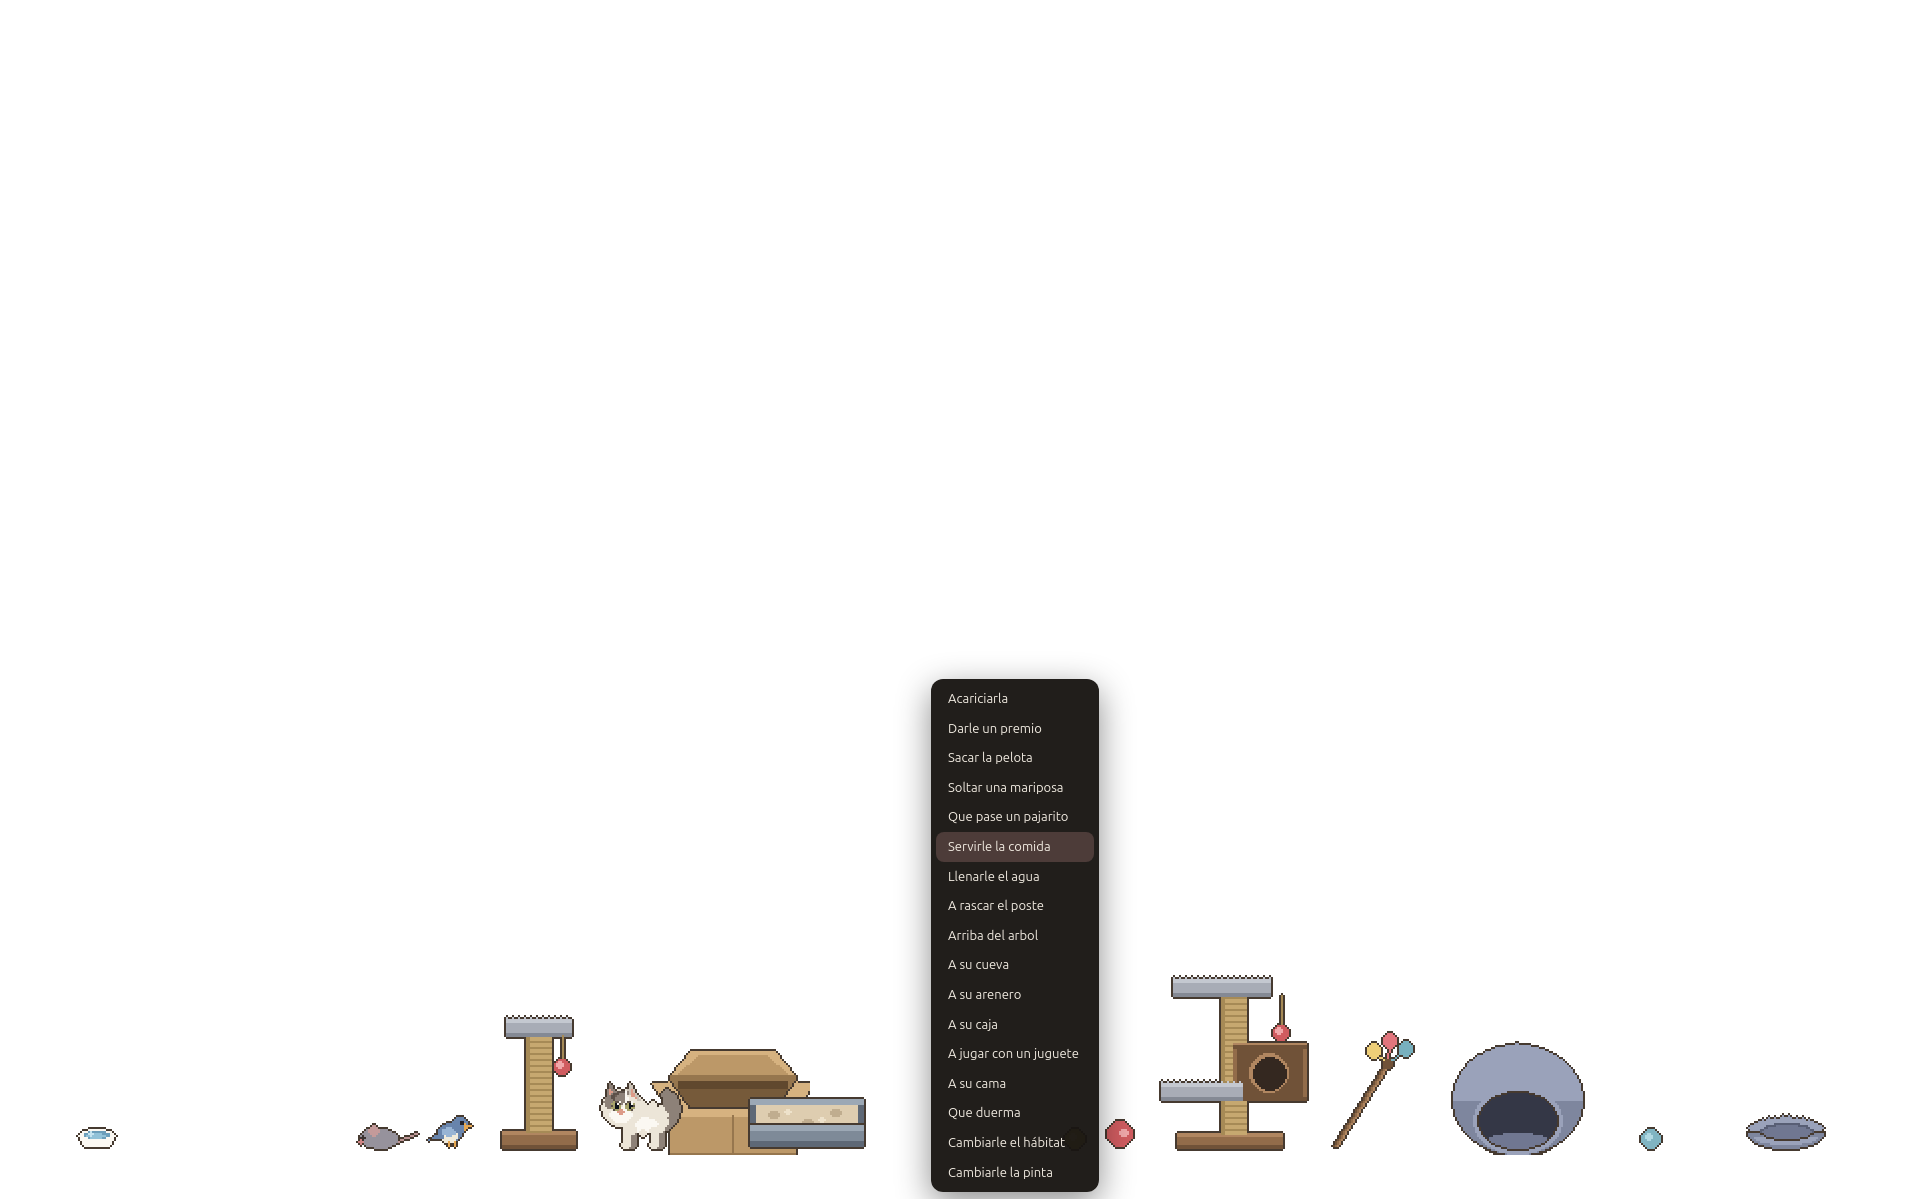
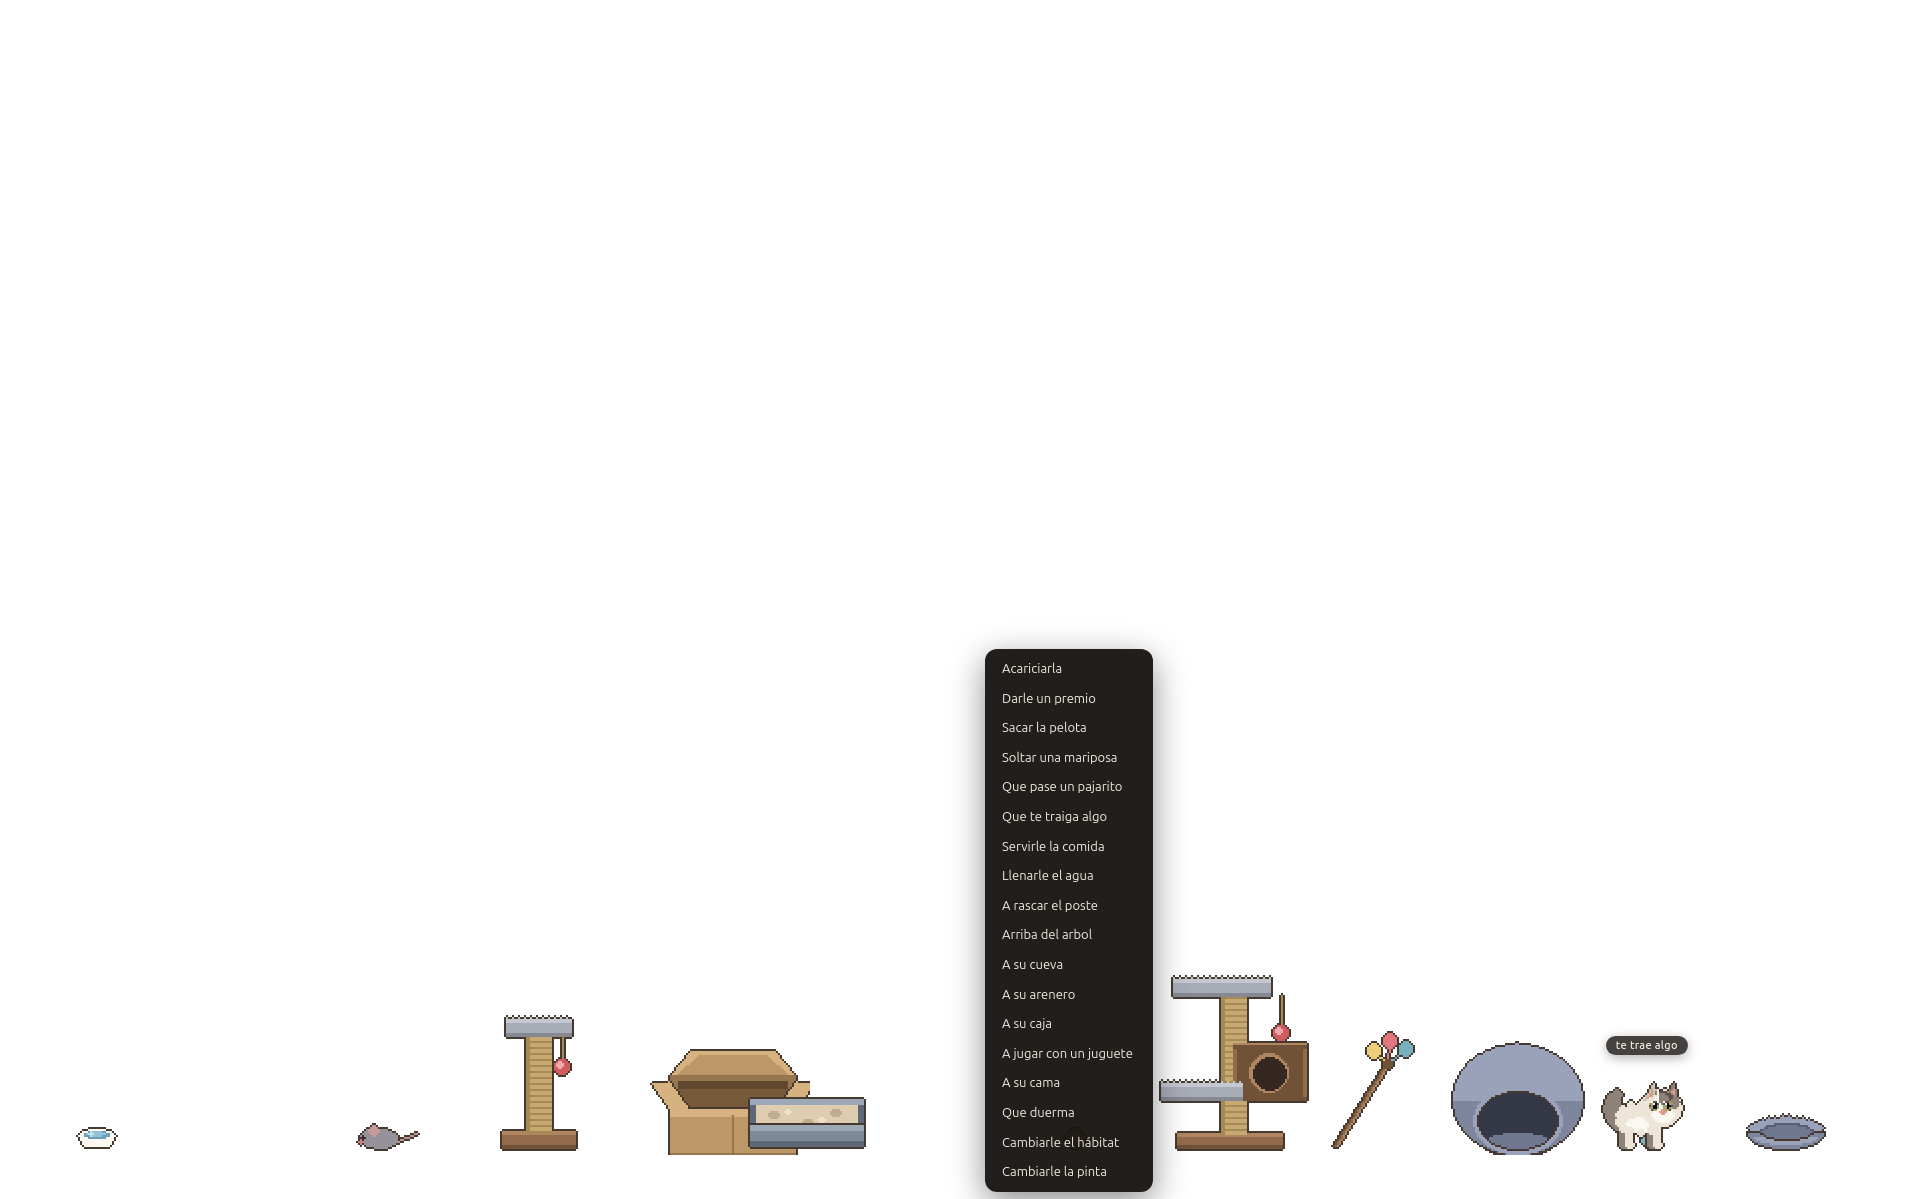
Que te traiga un regalito
Los gatos le llevan lo que cazan a quien quieren. Ella no caza nada de verdad,
asi que agarra uno de sus juguetes, te lo lleva hasta donde tenes el cursor, lo
deja ahi y se queda esperando que lo veas.

El juguete que levanta viaja con ella: mientras lo lleva se le ve colgando de la
boca (se dibuja por delante de ella), y cuando lo suelta queda en el piso y se
dibuja por detras. Se le ocurre sola cada tanto, o Ctrl+Alt+G.

UN BUG QUE SALIO AL PROBARLO
`llevaRegalo` lo use como modo de caminata pero no lo agregue al case que mueve,
asi que agarraba el juguete y se quedaba clavada en el lugar con el en la boca.
El case que mueve solo conocia walkTo y trot.

diff --git a/src/renderer/main.js b/src/renderer/main.js
@@ -3,7 +3,7 @@
 import { SpriteSheet } from './engine/sprites.js'
 import { World } from './engine/world.js'
 import { Cat } from './engine/cat.js'
-import { Bowl, Ball, Treat, Water, Butterfly, Bird } from './engine/props.js'
+import { Bowl, Ball, Treat, Water, Butterfly, Bird, Gift } from './engine/props.js'
 import { Litter, Piece } from './engine/furniture.js'
 import { Moments, Schedule } from './engine/moments.js'
 import { Routine } from './engine/routine.js'
@@ -38,6 +38,9 @@ const ACTION_LABELS = {
   eatTreat: 'comiendo',
   chaseButterfly: 'una mariposa',
   yawn: 'recién levantada',
+  tomaRegalo: 'te trae algo',
+  llevaRegalo: 'te trae algo',
+  ofrece: 'es para vos',
   watchBird: 'un pajarito',
   stalkBird: 'acechando',
   inBox: 'en su caja',
@@ -86,6 +89,7 @@ let butterfly = null
 let nextButterfly = 0              // cuando sale la proxima, en habitats con jardin
 let bird = null
 let nextBird = 0
+let gift = null
 let diasJuntos = 0                 // desde el primer dia
 let nextSave = 0
 
@@ -214,6 +218,7 @@ window.nala.onBoot(async ({ config, display, look, looks, habitat, habitats, est
   treat = new Treat(world)
   butterfly = new Butterfly(world)
   bird = new Bird(world)
+  gift = new Gift(world)
 
   // Su habitat. Las piezas salen del json: cada una se dibuja sola desde el
   // sprite, y si el sprite le declaro tablas, el motor las usa de superficies.
@@ -240,7 +245,7 @@ window.nala.onBoot(async ({ config, display, look, looks, habitat, habitats, est
   box = byRole('box')
   toys = pieces.filter((p) => PIECE_ROLE[p.kind] === 'toy')
 
-  cat.props = { bowl, ball, treat, bed, post, tree, cave, toys, litter, water, box, butterfly, bird }
+  cat.props = { bowl, ball, treat, bed, post, tree, cave, toys, litter, water, box, butterfly, bird, gift }
 
   needs = new Needs(config)
   cat.needs = needs
@@ -271,13 +276,11 @@ window.nala.onBoot(async ({ config, display, look, looks, habitat, habitats, est
 
   if (debug) {
     // Autotest: saca la pelota y captura el canvas para poder mirarlo.
-    setTimeout(() => { cat.playtime(); console.log('[nala] playtime() llamado') }, 2500)
     setTimeout(() => { forceStats = true }, 3200)
     setTimeout(() => { forceStats = false; bird.spawn(-1) }, 3300)
     setTimeout(() => {
       console.log(`[nala] ball.active=${ball.active} estado=${cat.state} menu=${menuOpen}`)
     }, 5500)
-    setTimeout(() => { cat.napNow(); console.log('[nala] napNow(): deberian salir prrr') }, 6500)
   }
 })
 
@@ -305,6 +308,7 @@ window.nala.onCommand((cmd) => {
   if (cmd.type === 'box') cat.goToBox()
   if (cmd.type === 'butterfly') soltarMariposa()
   if (cmd.type === 'bird') bird.spawn()
+  if (cmd.type === 'gift') cat.traerRegalo()
   if (cmd.type === 'water') {
     water.fill()
     if (cat.asking === 'agua') { cat.asking = null; sayNow('gracias', 6000) }
@@ -577,6 +581,7 @@ const MENU_ITEMS = [
   ['Sacar la pelota', () => cat.playtime()],
   ['Soltar una mariposa', () => soltarMariposa()],
   ['Que pase un pajarito', () => bird.spawn()],
+  ['Que te traiga algo', () => cat.traerRegalo()],
   ['Servirle la comida', () => cat.mealtime()],
   ['Llenarle el agua', () => water.fill()],
   ['A rascar el poste', () => cat.goToPost()],
@@ -793,7 +798,8 @@ function loop (now) {
     }
 
     if (cat.state !== lastState) {
-      if (lastState === 'sleep') sayNow('waking')
+      if (cat.state === 'ofrece') sayNow('regalo', 8000)
+      else if (lastState === 'sleep') sayNow('waking')
       else if (lastState === 'eat') sayNow('afterMeal')
       lastState = cat.state
     }
@@ -804,6 +810,7 @@ function loop (now) {
     if (now > nextSave) { nextSave = now + 30000; guardar() }
     butterfly.update(dt, cat.x, cat.y)
     bird.update(dt, cat.x, cat.vx)
+    gift.update(dt, cat.x, cat.y)
 
     // Los pajaritos pasan solos cada tanto, en cualquier habitat: se ven por
     // la ventana aunque ella este adentro.
@@ -894,7 +901,14 @@ function loop (now) {
     propSheet.draw(ctx, 'butterfly', butterfly.phase * 1000, butterfly.x, butterfly.y,
                    cat.scale, butterfly.tx < butterfly.x)
   }
+  if (gift && gift.active && !gift.enBoca && furnSheet) {
+    furnSheet.draw(ctx, gift.anim, 0, gift.x, gift.y, cat.scale, false)
+  }
   if (cat) cat.draw(ctx)
+  if (gift && gift.active && gift.enBoca && furnSheet) {
+    furnSheet.draw(ctx, gift.anim, 0, gift.x + cat.facing * 16, gift.y, cat.scale,
+                   cat.facing < 0)
+  }
 
   for (const p of pieces) {
     if (dentro(p)) p.sheet.draw(ctx, p.frontAnim, now, p.x, p.y, cat.scale, false)

diff --git a/src/renderer/engine/cat.js b/src/renderer/engine/cat.js
@@ -87,6 +87,9 @@ export class Cat {
       case 'watchBird': return 'alert'
       case 'stalkBird': return 'stalk'
       case 'goingBird': return 'walk'
+      case 'tomaRegalo': return 'walk'
+      case 'llevaRegalo': return 'walk'
+      case 'ofrece': return 'alert'
       case 'goingBox': return 'walk'
       case 'zoom': return 'run'
       case 'meow': return 'alert'
@@ -122,6 +125,9 @@ export class Cat {
       case 'watchBird': return r(7000, 16000)
       case 'stalkBird': return 12000
       case 'goingBird': return 0
+      case 'tomaRegalo': return 0
+      case 'llevaRegalo': return 25000
+      case 'ofrece': return r(9000, 16000)
       case 'goingBox': return 0
       case 'zoom': return 400
       case 'climbTree': return 3000
@@ -194,6 +200,17 @@ export class Cat {
     if (this.state === 'goingEat') { this.goToEat(); return }
     if (this.state === 'goingBox') { this.goToBox(); return }
     if (this.state === 'goingBird') { this.watchBird(); return }
+
+    // Levanta el juguete y lo lleva hasta donde tenes el cursor.
+    if (this.state === 'tomaRegalo') {
+      const g = this.props && this.props.gift
+      if (g) g.agarrar(this.giftAnim, this.x)
+      const p = ctx && ctx.pointer
+      const destino = p && p.active ? p.x : this.x + this.facing * 200
+      this.goTo(destino, 'ofrece', 25000, 'llevaRegalo')
+      return
+    }
+    if (this.state === 'ofrece') { this.setState('sit'); return }
     if (this.state === 'play') {
       const ball = this.props && this.props.ball
       if (ball && ball.active && Math.abs(ball.x - this.x) > 40) {
@@ -209,6 +226,10 @@ export class Cat {
     this.target = null
     const next = this.after
     this.after = null
+    if (next === 'ofrece') {
+      const g = this.props && this.props.gift
+      if (g) g.soltar(this.x)
+    }
     this.setState(next || 'idle')
   }
 
@@ -267,6 +288,7 @@ export class Cat {
   _act (dt, ctx) {
     switch (this.state) {
       case 'walkTo':
+      case 'llevaRegalo':
       case 'trot': {
         if (!this.target) { this._arrive(); break }
         const dx = this.target.x - this.x
@@ -624,6 +646,7 @@ export class Cat {
       if (p.litter) options.push(() => this.goToLitter())
       // La caja tira mas que el resto: es una caja.
       if (p.box) { options.push(() => this.goToBox()); options.push(() => this.goToBox()) }
+      if (p.gift && p.toys && p.toys.length) options.push(() => this.traerRegalo())
       if (options.length) {
         this.furnitureCooldownUntil = performance.now() + 30000
         options[Math.floor(Math.random() * options.length)]()
@@ -897,6 +920,23 @@ export class Cat {
       return
     }
     this.goTo(bowl.x, 'goingEat', 40000, 'trot')
+  }
+
+  /**
+   * Te trae un regalo. Agarra uno de sus juguetes, te lo lleva hasta el cursor,
+   * lo deja y se queda esperando que lo veas.
+   */
+  traerRegalo () {
+    const p = this.props || {}
+    if (!p.gift || !p.toys || !p.toys.length) return
+    const juguete = p.toys[Math.floor(Math.random() * p.toys.length)]
+    this.giftAnim = juguete.kind
+    this.energy = Math.max(this.energy, 0.5)
+    if (Math.abs(juguete.x - this.x) < 30 && this.surface && this.surface.isFloor) {
+      this.setState('tomaRegalo', 0)
+      return
+    }
+    this.goTo(juguete.x, 'tomaRegalo', 30000, 'trot')
   }
 
   /** Al arenero. Escarba, hace lo suyo, tapa, y despues se limpia. */

diff --git a/src/renderer/engine/props.js b/src/renderer/engine/props.js
@@ -450,3 +450,51 @@ export class Bird {
     if (this.life <= 0 || fuera) this.active = false
   }
 }
+
+/**
+ * El regalito que te trae.
+ *
+ * Los gatos le llevan lo que cazan a quien quieren. Ella no caza nada de
+ * verdad, asi que agarra uno de sus juguetes, te lo lleva hasta donde tenes el
+ * cursor, lo deja ahi y se queda esperando que lo veas.
+ */
+export class Gift {
+  constructor (world) {
+    this.world = world
+    this.active = false
+    this.enBoca = false
+    this.anim = 'mouse'
+    this.x = 0
+    this.y = 0
+    this.espera = 0
+  }
+
+  /** Lo levanta: a partir de aca viaja con ella. */
+  agarrar (anim, x) {
+    this.active = true
+    this.enBoca = true
+    this.anim = anim || 'mouse'
+    this.x = x
+    this.espera = 0
+  }
+
+  /** Lo deja en el piso, donde este ella. */
+  soltar (x) {
+    this.enBoca = false
+    this.x = x
+    this.y = this.world.floorAt(x).y
+    this.espera = 90
+  }
+
+  update (dt, catX, catY) {
+    if (!this.active) return
+    if (this.enBoca) {
+      // Colgando de la boca, un poco adelante y a la altura de la cabeza.
+      this.x = catX
+      this.y = catY - 26
+      return
+    }
+    this.espera -= dt
+    if (this.espera <= 0) this.active = false   // se olvida y vuelve a su lugar
+  }
+}

diff --git a/src/main/index.js b/src/main/index.js
@@ -432,6 +432,7 @@ function refreshTrayMenu () {
     { label: 'Sacar la pelota', click: send('command', { type: 'play' }) },
     { label: 'Soltar una mariposa', click: send('command', { type: 'butterfly' }) },
     { label: 'Que pase un pajarito', click: send('command', { type: 'bird' }) },
+    { label: 'Que te traiga algo', click: send('command', { type: 'gift' }) },
     { label: 'Darle un premio', click: send('command', { type: 'treat' }) },
     { type: 'separator' },
     { label: 'A rascar el poste', click: send('command', { type: 'scratch' }) },
@@ -512,7 +513,8 @@ const SHORTCUTS = [
   ['Control+Alt+A', 'al arenero', { type: 'litter' }],
   ['Control+Alt+B', 'a su caja', { type: 'box' }],
   ['Control+Alt+M', 'una mariposa', { type: 'butterfly' }],
-  ['Control+Alt+J', 'un pajarito', { type: 'bird' }]
+  ['Control+Alt+J', 'un pajarito', { type: 'bird' }],
+  ['Control+Alt+G', 'que te traiga algo', { type: 'gift' }]
 ]
 
 /**

diff --git a/src/renderer/engine/messages.js b/src/renderer/engine/messages.js
@@ -68,6 +68,14 @@ const DEFAULTS = {
     'Estoy soñando con vos.'
   ],
 
+  // Te dejo un regalo a los pies y espera que lo veas.
+  regalo: [
+    'Es para vos.',
+    'Te lo traje.',
+    'Mirá lo que cacé.',
+    'Tomá. Cuidalo.'
+  ],
+
   // Se despierta de una siesta.
   waking: [
     'Dormí bien.',

diff --git a/README.md b/README.md
@@ -178,6 +178,17 @@ ahí.
 
 ---
 
+## El regalito
+
+Los gatos le llevan lo que cazan a quien quieren. Ella no caza nada de verdad,
+así que agarra uno de sus juguetes, **te lo lleva hasta donde tenés el cursor**,
+lo deja ahí y se queda esperando que lo veas — *"Es para vos."*
+
+Se le ocurre sola cada tanto, o `Ctrl+Alt+G`. Mientras lo lleva se le ve colgando
+de la boca; cuando lo suelta queda en el piso un rato y después vuelve a su lugar.
+
+---
+
 ## Los pajaritos
 
 Cada tanto pasa uno, en cualquier hábitat. No cruza de largo: **se posa** en una
@@ -402,6 +413,17 @@ puede usar `{dias}`:
 Para cambiar la fecha de inicio, editá `desde` en `estado.json`. Si querés que
 cuente desde el día que llegó a tu casa y no desde que instalaste la app, es
 ahí.
+
+---
+
+## El regalito
+
+Los gatos le llevan lo que cazan a quien quieren. Ella no caza nada de verdad,
+así que agarra uno de sus juguetes, **te lo lleva hasta donde tenés el cursor**,
+lo deja ahí y se queda esperando que lo veas — *"Es para vos."*
+
+Se le ocurre sola cada tanto, o `Ctrl+Alt+G`. Mientras lo lleva se le ve colgando
+de la boca; cuando lo suelta queda en el piso un rato y después vuelve a su lugar.
 
 ---
 
